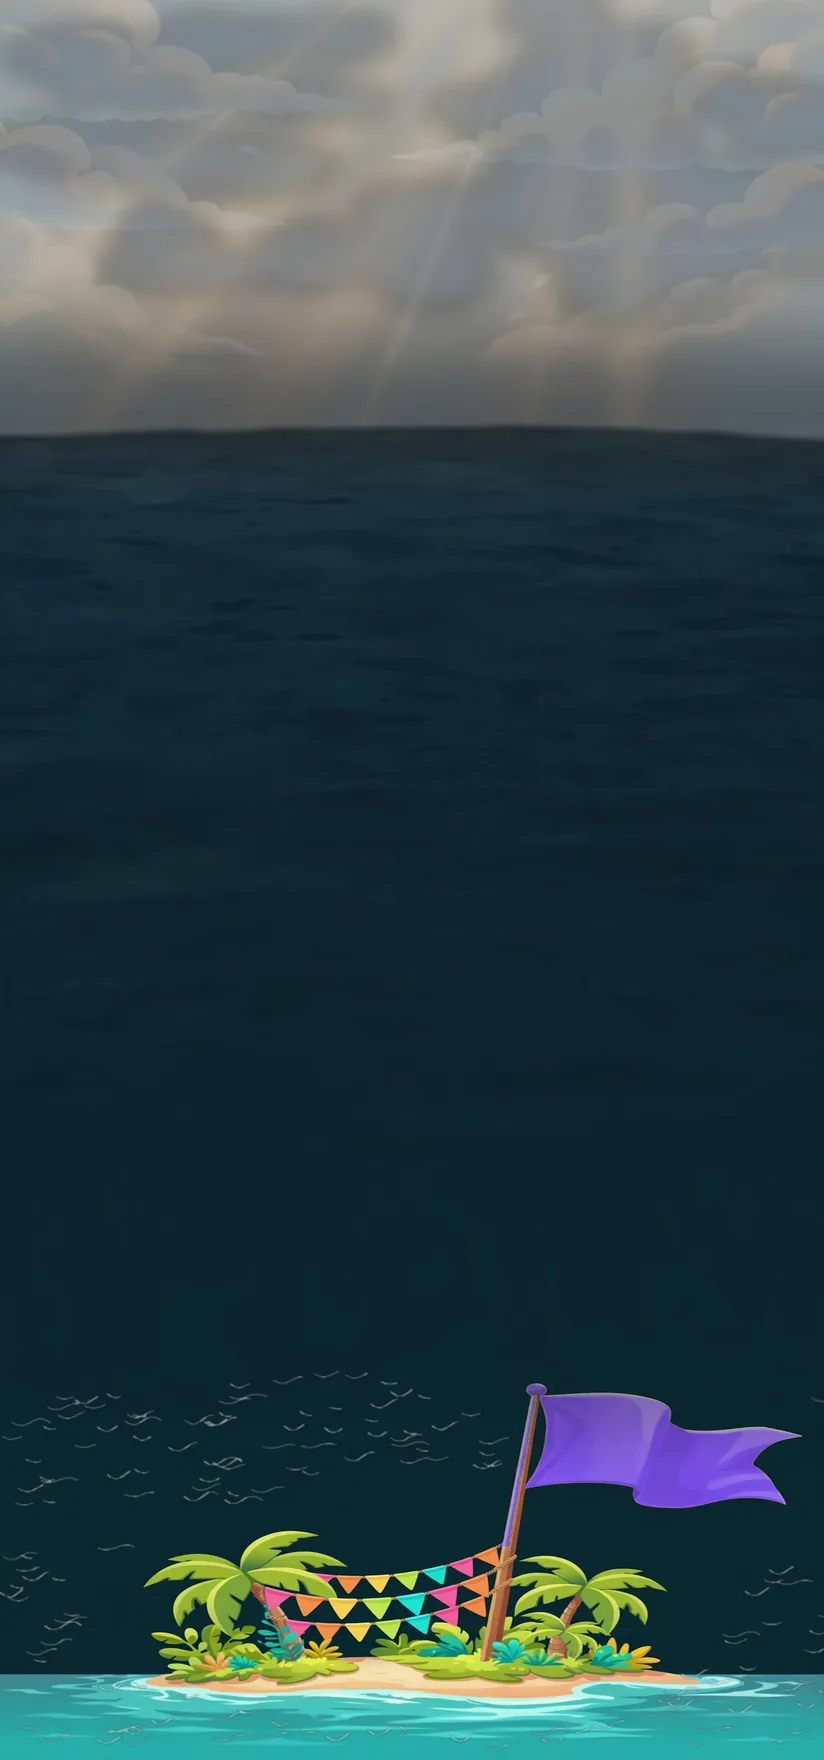
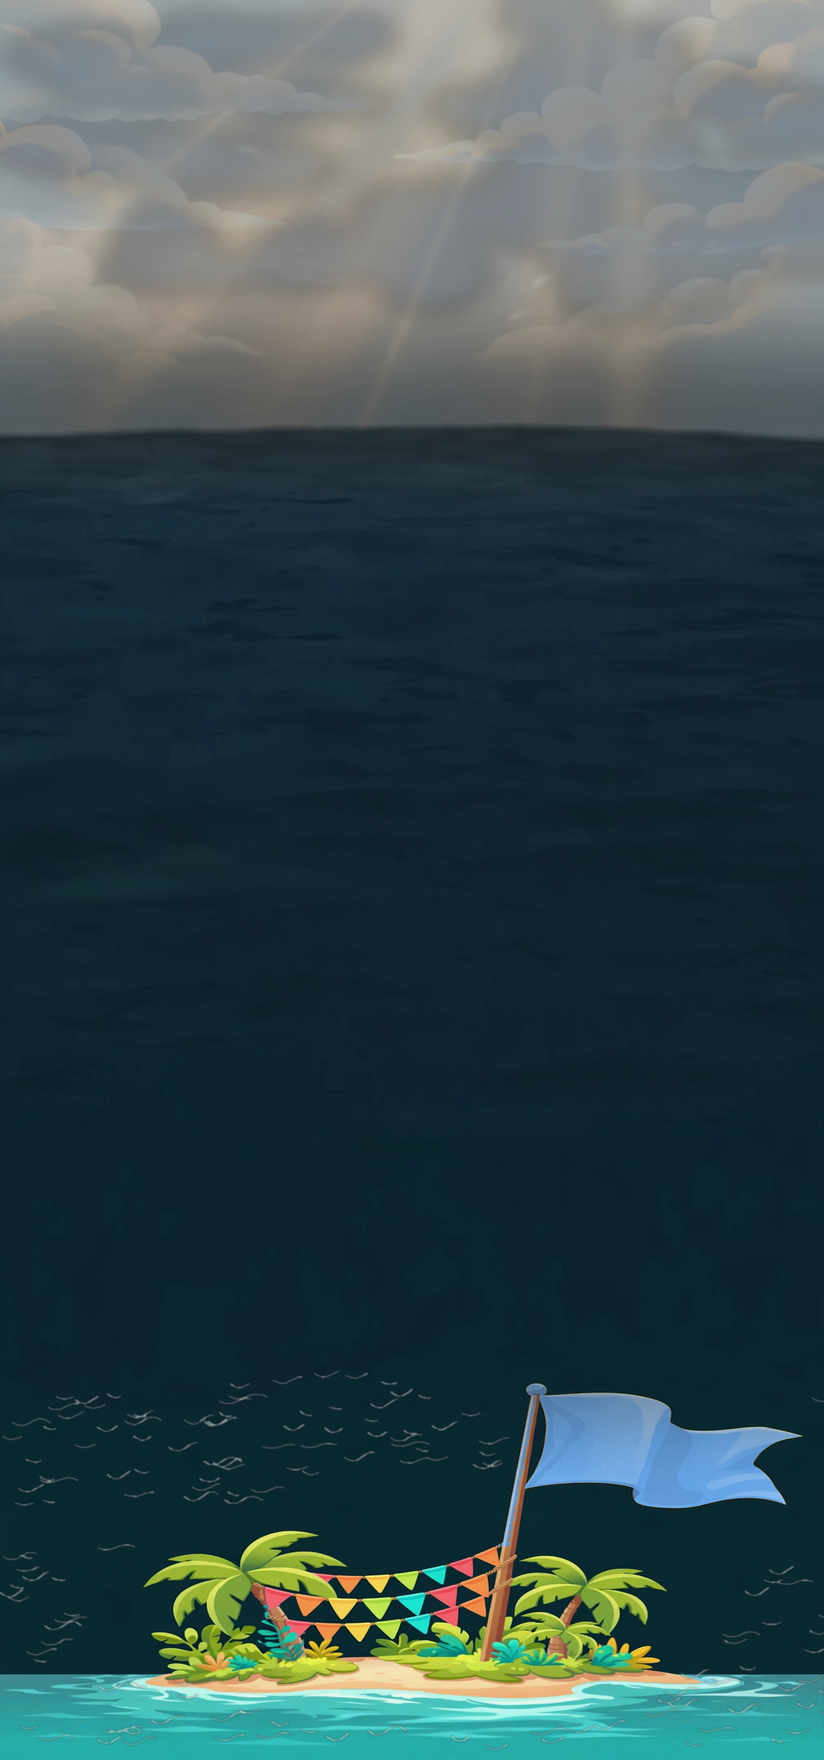
v33: basi, bandiere e sconfitta blu (Gruppo 11)
Claude-Session: https://claude.ai/code/session_01EeKiG8y1kcPbdSHUHGW8AA

Changed region(s): [[0.6068, 0.7812, 0.9709, 0.875], [0.5158, 0.875, 0.5765, 0.9375], [0.3034, 0.9062, 0.3641, 0.9375]]

diff --git a/www/index.html b/www/index.html
@@ -744,6 +744,10 @@ const LS={
 let LOOK=LS.get('isole-look')===null?5:(+LS.get('isole-look')||0);
 /* Registro modifiche: la prima voce è la versione attuale. Si aggiorna a ogni modifica. */
 const CHANGELOG=[
+{v:33,d:'23 nov 2026',t:'Basi, bandiere e sconfitta in blu',n:[
+'Con «Grafica di prova»: basi, bandiere e schermata di sconfitta sono i nuovi disegni di Muse (consegna squadra blu); basi e bandiere oro rifatte in coppia',
+'Il viola non c’è più nel gioco (restano da controllare gli sfondi del menu, della vittoria e del pareggio)'
+]},
 {v:32,d:'23 nov 2026',t:'Barra vita sopra la pedina',n:[
 'Con «Grafica di prova»: la barra della vita sta sopra la testa dei personaggi, fuori dalla sagoma, e non la copre più'
 ]},
@@ -1024,7 +1028,7 @@ const sleep=ms=>new Promise(r=>setTimeout(r,fast?0:ms));
 
 /* --- Grafica di prova: blocchi del terreno disegnati da Muse (PNG 256×256: faccia 194 px + fronte 62 px) --- */
 const GP={on:LS.get('isole-gp')==='1',mips:{},loading:false,dir:'assets/terreno-v2/terreno_',
-  names:['prato_a','prato_b','stazione_a','stazione_b','bosco_a','bosco_b','lago_a','lago_b','ghiaccio_a','ghiaccio_b','monte_a','monte_b','cenere_a','cenere_b','base_oro','base_viola']};
+  names:['prato_a','prato_b','stazione_a','stazione_b','bosco_a','bosco_b','lago_a','lago_b','ghiaccio_a','ghiaccio_b','monte_a','monte_b','cenere_a','cenere_b','base_oro','base_blu']};
 function gpMips(im){ // versioni dimezzate: ridurre di molto in un colpo solo sfuoca e sfarfalla
   const L=[im];let s=256;
   while(s>32){s/=2;const c=document.createElement('canvas');c.width=c.height=s;const q=c.getContext('2d');q.imageSmoothingQuality='high';q.drawImage(L[L.length-1],0,0,s,s);L.push(c)}
@@ -1034,8 +1038,8 @@ function gpLoad(){
   if(GP.loading)return;GP.loading=true;goLoad();guLoad();geLoad();gtLoad();
   for(const n of GP.names){const im=new Image();im.onload=()=>{GP.mips[n]=gpMips(im)};im.src=GP.dir+n+'.png'}
 }
-const GO={im:{},names:['pino_a','pino_b','pino_c','boschetto_a','boschetto_b','montagna_a','montagna_b','stazione_0','stazione_40','stazione_80','stazione_f00','stazione_f01','stazione_f02','stazione_f03','stazione_f04','stazione_f05','stazione_f06','stazione_f07','stazione_f08','stazione_f09','stazione_f10','stazione_f11','stazione_f12','stazione_f13','stazione_f14','stazione_f15','stazione_f16','stazione_f17','stazione_f18','stazione_f19','stazione_f20','stazione_f21','stazione_f22','stazione_f23','bandiera_oro_1','bandiera_oro_2','bandiera_viola_1','bandiera_viola_2','terreno_vulcano_calmo','terreno_vulcano_arde','terreno_vulcano_eruttato'],
-  A:{pino_a:356,pino_b:296,pino_c:340,boschetto_a:316,boschetto_b:312,montagna_a:256,montagna_b:231,stazione_0:296,stazione_40:296,stazione_80:296,stazione_f00:296,stazione_f01:296,stazione_f02:296,stazione_f03:296,stazione_f04:296,stazione_f05:296,stazione_f06:296,stazione_f07:296,stazione_f08:296,stazione_f09:296,stazione_f10:296,stazione_f11:296,stazione_f12:296,stazione_f13:296,stazione_f14:296,stazione_f15:296,stazione_f16:296,stazione_f17:296,stazione_f18:296,stazione_f19:296,stazione_f20:296,stazione_f21:296,stazione_f22:296,stazione_f23:296,bandiera_oro_1:320,bandiera_oro_2:320,bandiera_viola_1:320,bandiera_viola_2:320}};
+const GO={im:{},names:['pino_a','pino_b','pino_c','boschetto_a','boschetto_b','montagna_a','montagna_b','stazione_0','stazione_40','stazione_80','stazione_f00','stazione_f01','stazione_f02','stazione_f03','stazione_f04','stazione_f05','stazione_f06','stazione_f07','stazione_f08','stazione_f09','stazione_f10','stazione_f11','stazione_f12','stazione_f13','stazione_f14','stazione_f15','stazione_f16','stazione_f17','stazione_f18','stazione_f19','stazione_f20','stazione_f21','stazione_f22','stazione_f23','bandiera_oro_1','bandiera_oro_2','bandiera_blu_1','bandiera_blu_2','terreno_vulcano_calmo','terreno_vulcano_arde','terreno_vulcano_eruttato'],
+  A:{pino_a:356,pino_b:296,pino_c:340,boschetto_a:316,boschetto_b:312,montagna_a:256,montagna_b:231,stazione_0:296,stazione_40:296,stazione_80:296,stazione_f00:296,stazione_f01:296,stazione_f02:296,stazione_f03:296,stazione_f04:296,stazione_f05:296,stazione_f06:296,stazione_f07:296,stazione_f08:296,stazione_f09:296,stazione_f10:296,stazione_f11:296,stazione_f12:296,stazione_f13:296,stazione_f14:296,stazione_f15:296,stazione_f16:296,stazione_f17:296,stazione_f18:296,stazione_f19:296,stazione_f20:296,stazione_f21:296,stazione_f22:296,stazione_f23:296,bandiera_oro_1:320,bandiera_oro_2:320,bandiera_blu_1:320,bandiera_blu_2:320}};
 function goLoad(){for(const n of GO.names){const im=new Image();im.onload=()=>{GO.im[n]=im};im.src='assets/oggetti/'+n+'.png'}}
 const GU={im:{},H:{esploratore:264,guerriero:245,arciere:286,cavaliere:316,sciamano:294,lanciere:300,guaritore:280,balestriere:270,alfiere:320},T:{E:'esploratore',G:'guerriero',A:'arciere',K:'cavaliere',W:'sciamano',L:'lanciere',H:'guaritore',B:'balestriere',R:'alfiere'}};
 function guLoad(){for(const t of Object.keys(GU.H))for(const c of['oro','blu'])for(const pz of['normale','stanca']){const n=t+'_'+c+'_'+pz,im=new Image();im.onload=()=>{GU.im[n]=im};im.src='assets/pedine/'+n+'.png'}}
@@ -1087,7 +1091,7 @@ function gpName(t,x,y,gelo){
   const v=((((x*73856093)^(y*19349663))>>>3)&1)?'b':'a';
   if(t==='P'){
     if(x===BASE[0].x&&y===BASE[0].y)return 'base_oro';
-    if(x===BASE[1].x&&y===BASE[1].y)return 'base_viola';
+    if(x===BASE[1].x&&y===BASE[1].y)return 'base_blu';
     return 'prato_'+v;
   }
   if(t==='S')return 'stazione_'+v;
@@ -1607,7 +1611,7 @@ function drawObject(x,y,t,tick){
   else if(t==='S')stationObj(x,y,tick);
 }
 function baseFlag(o,tick){
-  if(goReady()){const b0=BASE[o];goFlag('bandiera_'+(o===0?'oro_':'viola_')+'1',cx(b0.x)+lay.cs/2,cy(b0.y)+lay.fh*.72,lay.cs,tick,o*2);return}
+  if(goReady()){const b0=BASE[o];goFlag('bandiera_'+(o===0?'oro_':'blu_')+'1',cx(b0.x)+lay.cs/2,cy(b0.y)+lay.fh*.72,lay.cs,tick,o*2);return}
   const b=BASE[o],cs=lay.cs,k=cs/40,col=o===0?'#f2b84b':'#6f9fe0',dark=o===0?'#a8741f':'#5f4cae',X=cx(b.x)+cs/2,top=cy(b.y),fh=lay.fh;
   const pw=cs*.36,py=top+fh*.66;
   rr(X-pw,py+3*k,pw*2,fh*.2,4*k);ctx.fillStyle=dark;ctx.fill();

diff --git a/muse/2026-11-23-squadra-blu/RISPOSTA.md b/muse/2026-11-23-squadra-blu/RISPOSTA.md
@@ -1,0 +1,4 @@
+# Risposta — Gruppo 11 squadra blu
+
+Integrato (con «Grafica di prova»): basi blu/oro in `terreno-v2/`, bandiere blu/oro in `oggetti/`, `sfondo_sconfitta.webp` (824×1760). Vecchi file viola rimossi. Misure e ancore corrispondono.
+Ancora viola: l'isola a destra nello sfondo del menu (`sfondo_menu.webp`). Da controllare anche `sfondo_vittoria` e `sfondo_pareggio`. Serve una v2 di questi sfondi con l'isola blu.

diff --git a/CHANGELOG.md b/CHANGELOG.md
@@ -2,6 +2,9 @@
 
 (Lo stesso registro è dentro il gioco: menu iniziale → «Novità e registro modifiche».)
 
+## v33 — 23 nov 2026 · Basi, bandiere e sconfitta in blu
+- Basi, bandiere e schermata di sconfitta di Muse (squadra blu); gemelli oro rifatti
+
 ## v32 — 23 nov 2026 · Barra vita sopra la pedina
 - La barra della vita sta fuori dalla sagoma, sopra la testa
 
